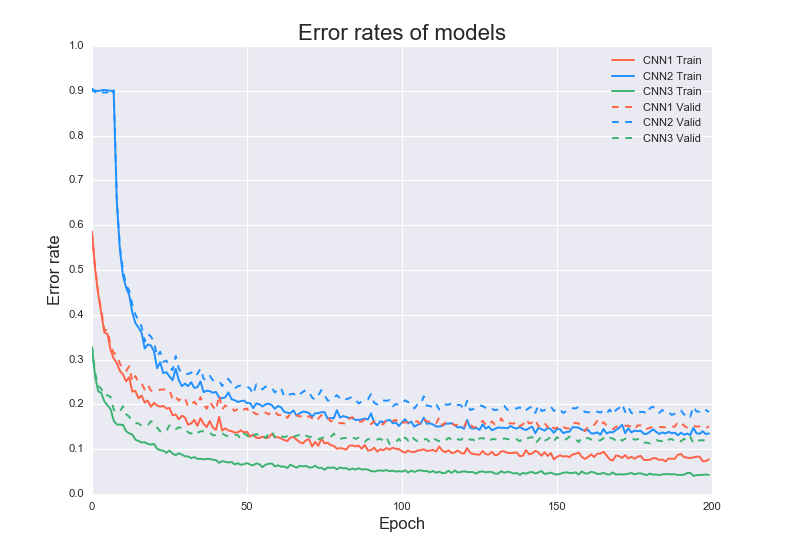
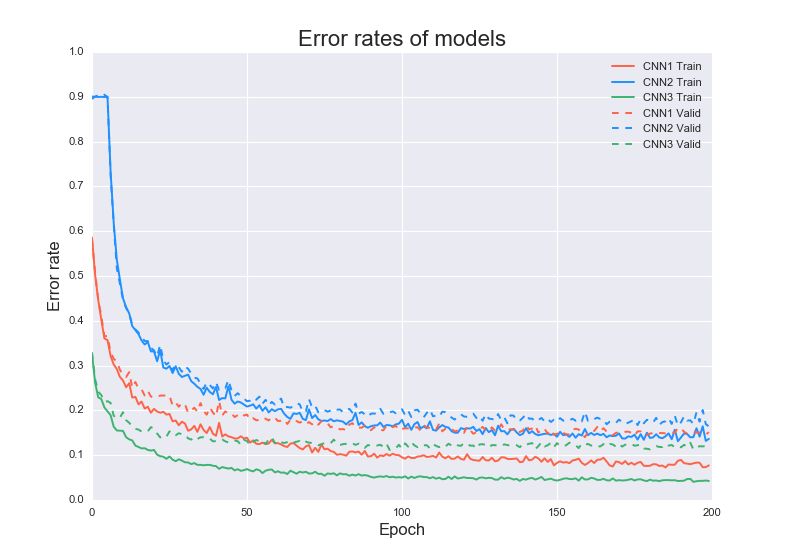
fix

diff --git a/models.py b/models.py
@@ -37,7 +37,7 @@ class Classifier(object):
     def __build__(self, init_params):
         pass
 
-    def fit(self, X, y):
+    def fit(self, X, y, keep_prob=0.5):
         data_size = len(X)
         indexes = np.arange(data_size)
         batches = int(len(indexes) / self.batch_size)
@@ -49,10 +49,13 @@ class Classifier(object):
                 end_idx = -1
             batch_x = X[indexes[start_idx : end_idx]]
             batch_y = y[indexes[start_idx : end_idx]]
-            _, loss = self.sess.run([self.train_op, self.loss], feed_dict={self.x : batch_x, self.y : batch_y})
+            _, loss = self._fit(batch_x, batch_y)
             print("Epoch %d, batch %d/%d, loss %f"%(self.epoch, i+1, batches, loss))
-
         self.epoch += 1
+
+    def _fit(self, x, y):
+        update, loss = self.sess.run([self.train_op, self.loss], feed_dict={self.x : x, self.y : y})
+        return update, loss
 
     def predict(self, X):
         predicts = self.sess.run(self.predict, feed_dict={self.x : X}).argmax(axis=1)
@@ -119,7 +122,7 @@ class ConvNet1(Classifier):
 class ConvNet2(Classifier):
 
     def __build__(self, weight_decay=1e-4):
-        keep_prob = 0.5
+        keep_prob = tf.placeholder(dtype=tf.float32)
         inputs_shape = [None]
         inputs_shape.extend(self.img_shape)
         x = tf.placeholder(dtype=tf.float32, shape=inputs_shape)
@@ -137,7 +140,7 @@ class ConvNet2(Classifier):
         flatten = tf.reshape(h3, [-1, functions.dim(h3)])
         h4, dt4, w4, b4 = functions.dense_layer(flatten, 1024)
         h4 = tf.nn.relu(h4)
-        h4 = functions.dropout(h4, keep_prob, self.is_train)
+        h4 = tf.nn.dropout(h4, keep_prob)
         h5, dt5, w5, b5 = functions.dense_layer(h4, self.classes_num)
         predict = tf.nn.softmax(h5)
         loss = tf.reduce_mean(tf.nn.softmax_cross_entropy_with_logits(logits=h5, labels=y))
@@ -150,6 +153,23 @@ class ConvNet2(Classifier):
         self.hiddens = {"h1" : h1, "h2" : h2, "h3" : h3, "h4" : h4, "h5" : h5}
         self.x = x
         self.y = y
+        self.keep_prob = keep_prob
+
+    def _fit(self, x, y):
+        update, loss = self.sess.run([self.train_op, self.loss], feed_dict={self.x : x, self.y : y, self.keep_prob : 0.5})
+        return update, loss
+
+    def predict(self, X):
+        predicts = self.sess.run(self.predict, feed_dict={self.x : X, self.keep_prob : 1.}).argmax(axis=1)
+        return predicts
+
+    def distribution(self, X):
+        probabilities = self.sess.run(self.predict, feed_dict={self.x : X, self.keep_prob : 1.})
+        return probabilities
+
+    def eval_loss(self, X, y):
+        loss = self.sess.run(self.loss, feed_dict={self.x : X, self.y : y, self.keep_prob : 1.})
+        return loss
 
 
 class ConvNet3(Classifier):

diff --git a/train.py b/train.py
@@ -38,7 +38,7 @@ if __name__ == "__main__":
     label_names = meta[b"fine_label_names"]
     records_dir = "records"
     models_dir = "models"
-    model_id = "conv1"
+    model_id = "conv2"
     if not os.path.exists(records_dir) or not os.path.isdir(records_dir):
             os.mkdir(records_dir)
     if not os.path.exists(models_dir) or not os.path.isdir(models_dir):
@@ -50,7 +50,7 @@ if __name__ == "__main__":
     optimizer = tf.train.AdamOptimizer()
 
     crop_size = 24
-    model = models.ConvNet1([crop_size, crop_size, 3], 10, sess, optimizer=optimizer, model_id=model_id)
+    model = models.ConvNet2([crop_size, crop_size, 3], 10, sess, optimizer=optimizer, model_id=model_id)
     saver = tf.train.Saver(model.get_trainable_variables())
     max_epoch = 200
     early_stop = False

diff --git a/functions.py b/functions.py
@@ -52,11 +52,6 @@ def max_pool(x, ksize, strides=2):
 def avg_pool(x, ksize, strides=2):
     return tf.nn.avg_pool(x, ksize=[1, ksize, ksize, 1], strides=[1, strides, strides, 1], padding="SAME")
 
-def dropout(x, keep_prob, is_train):
-    if is_train:
-        x = tf.nn.dropout(x, keep_prob)
-    return x
-
 def bn_layer(x, is_train, decay=0.9):
     a_shape = x.get_shape().as_list()
     a_num = a_shape[-1]
